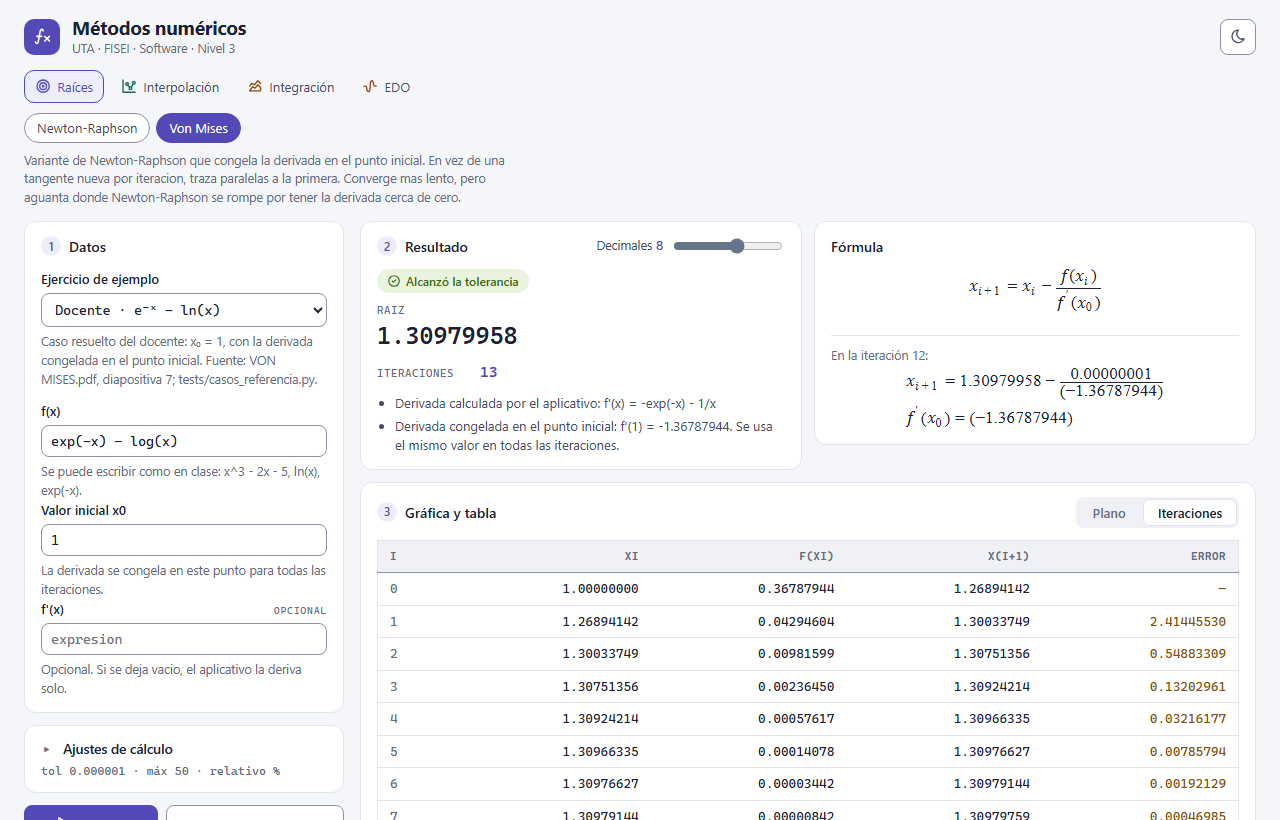
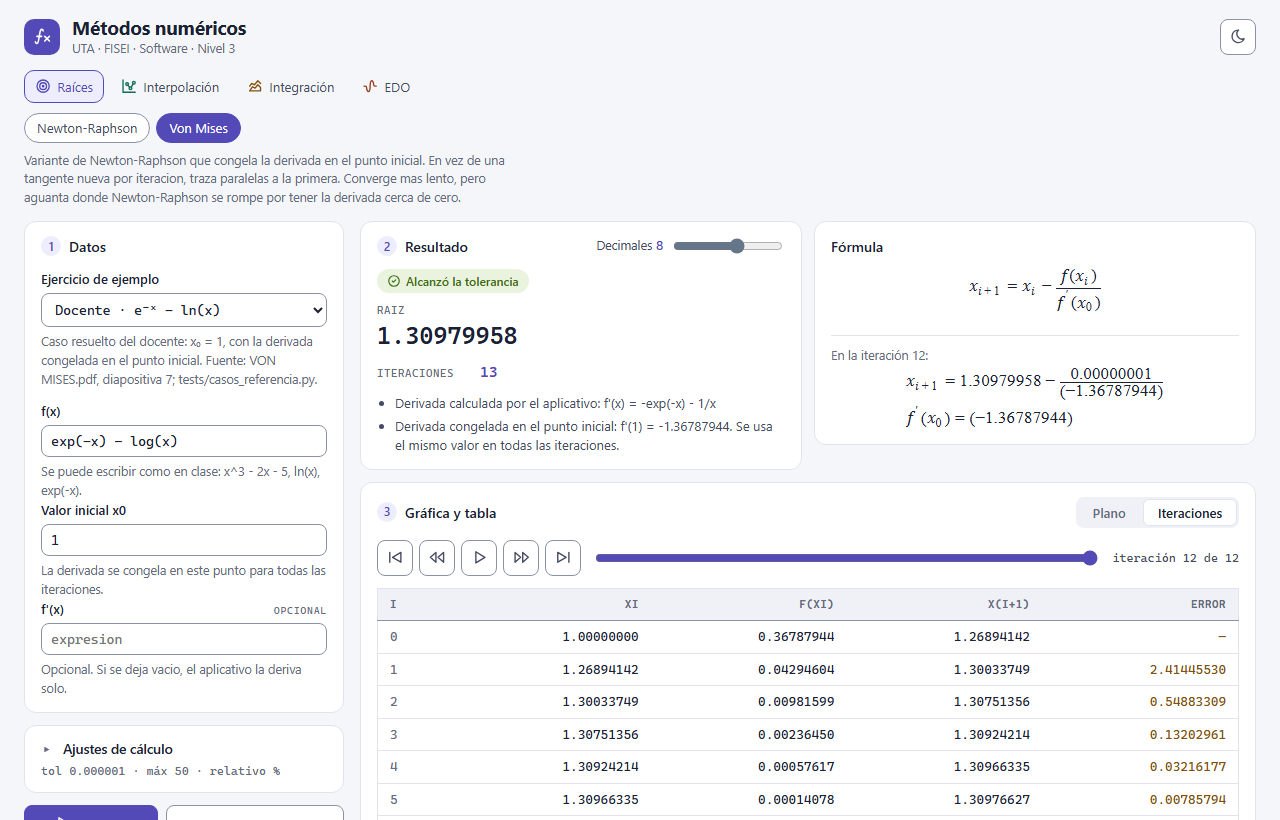
Manual, capturas y validación del arrastre

diff --git a/tests/e2e/capturas.spec.js b/tests/e2e/capturas.spec.js
@@ -29,6 +29,19 @@ async function dibujoTerminado(page) {
   await page.waitForTimeout(2300);
 }
 
+// Un punto del plano de la aplicacion en coordenadas de pagina: la raiz o un
+// asa. Lo calcula el propio plano, asi no depende de donde quede el lienzo.
+async function puntoDelPlano(page, cual) {
+  const [px, py] = await page.evaluate(async (cual) => {
+    const { plano } = await import("/app.js");
+    if (cual !== "raiz") return plano.posicionAsa(cual);
+    const raiz = plano.capas.find((c) => c.nombre === "raiz").puntos[0];
+    return plano._aPantalla(raiz.x, raiz.y);
+  }, cual);
+  const caja = await page.locator("#plano").boundingBox();
+  return [caja.x + px, caja.y + py];
+}
+
 test("capturas del manual", async ({ page }) => {
   await page.goto("/");
   await esperarDesplegable(page);
@@ -75,8 +88,28 @@ test("capturas del manual", async ({ page }) => {
   await arriba(page);
   // Con la vista inicial todos los puntos caen casi sobre la raiz: se acerca
   // a ella para que se vean el elemento actual y los siguientes, atenuados.
-  await page.mouse.move(870, 1018);
+  await page.mouse.move(...await puntoDelPlano(page, "raiz"));
   for (let i = 0; i < 16; i++) await page.mouse.wheel(0, -300);
   await page.waitForTimeout(800);
   await page.screenshot({ path: `${DESTINO}04-recorrido.png` });
+
+  // El arrastre: √2 con Newton-Raphson, con el asa x0 tomada y llevada de 1
+  // hacia la izquierda, donde las tangentes se ven. Se fotografia con el boton
+  // todavia apretado.
+  await page.setViewportSize({ width: 1280, height: 820 });
+  await elegirMetodo(page, "newton-raphson");
+  await page.locator("#preset").selectOption("newton-raiz-de-dos");
+  await page.locator("#resolver").click();
+  await expect(page.locator("#resumen .estado")).toBeVisible();
+  await dibujoTerminado(page);
+  // Solo la tarjeta del plano: con la pagina arriba el eje queda bajo el borde.
+  await page.locator("#plano").scrollIntoViewIfNeeded();
+  const [x, y] = await puntoDelPlano(page, "x0");
+  await page.mouse.move(x, y);
+  await page.mouse.down();
+  await page.mouse.move(x - 90, y, { steps: 10 });
+  await expect(page.locator("#campo-x0")).not.toHaveValue("1");
+  await page.waitForTimeout(600);
+  await page.locator("#tarjeta-plano").screenshot({ path: `${DESTINO}05-arrastre.png` });
+  await page.mouse.up();
 });

diff --git a/tests/pages/sitio.spec.js b/tests/pages/sitio.spec.js
@@ -100,6 +100,27 @@ test("exporta CSV y PDF desde los botones", async () => {
   }
 });
 
+test("arrastrar x₀ de Newton-Raphson recalcula con Python en el navegador", async () => {
+  await elegirMetodo(page, "newton-raphson");
+  await page.locator("#preset").selectOption("newton-clasico");
+  await page.locator("#resolver").click();
+  await expect(page.locator("#resumen .estado")).toBeVisible();
+  const resumen = await page.locator("#resumen").textContent();
+  const posicion = () => page.evaluate(async () =>
+    (await import(new URL("app.js", location.href))).plano.posicionAsa("x0"));
+  await page.locator("#plano").scrollIntoViewIfNeeded();
+  await expect.poll(posicion).not.toBeNull();
+  const [px, py] = await posicion();
+  const caja = await page.locator("#plano").boundingBox();
+  await page.mouse.move(caja.x + px, caja.y + py);
+  await page.mouse.down();
+  await page.mouse.move(caja.x + px - 60, caja.y + py, { steps: 10 });
+  await page.mouse.up();
+  await expect(page.locator("#campo-x0")).not.toHaveValue("2");
+  await expect.poll(() => page.locator("#resumen").textContent()).not.toBe(resumen);
+  await expect(page.locator("#paso-siguiente")).toBeEnabled();
+});
+
 test("no quedan errores en la consola", async () => {
   expect(errores).toEqual([]);
 });

diff --git a/docs/MANUAL.md b/docs/MANUAL.md
@@ -171,7 +171,9 @@ produce una estimacion de error por fila, y la nota lo explica.
 Es un plano de verdad, no una imagen:
 
 - **Rueda del mouse** para acercar y alejar.
-- **Arrastrar** para mover.
+- **Arrastrar el fondo** para mover.
+- **Los circulos de color** son datos del problema y se pueden arrastrar (ver
+  la seccion 6).
 - **Doble clic** vuelve a la vista inicial.
 - Con el plano **enfocado** (haciendo clic o con Tab): flechas para mover, `+`
   y `−` para el zoom, `Home` para volver al inicio.
@@ -192,7 +194,7 @@ iteracion 1, resaltado, y los de las filas siguientes, tenues.
 
 Despues de resolver, el aplicativo no solo muestra el final: se puede ir paso a
 paso, como en el pizarron. Arriba del plano aparece una barra con cinco botones
-y un deslizador. Al resolver queda en la **ultima fila**; para volver a mirar
+y un deslizador; queda a la vista tambien en la pestana **Iteraciones**. Al resolver queda en la **ultima fila**; para volver a mirar
 desde el principio se pulsa **Primera fila**.
 
 | Control | Que hace |
@@ -236,7 +238,9 @@ Una vez elegida la fila, todo se mueve junto:
   formula con los numeros de la fila: "En la iteracion n:" (o "En el punto n",
   "En el subintervalo n", "En el paso n") seguido de la sustitucion. Los numeros
   negativos van entre parentesis. En Runge-Kutta se escribe una linea por cada
-  incognita del sistema.
+  incognita del sistema. En Newton-Raphson y Von Mises, si la fila cae justo en
+  la raiz (f(x) = 0) el metodo no avanza: en vez de la division se lee
+  `raiz exacta: el metodo no avanza`.
 
 Algunas cosas conviene saberlas:
 
@@ -253,7 +257,45 @@ Algunas cosas conviene saberlas:
 - Si un metodo diverge, tambien se puede recorrer; las filas con valores que no
   existen muestran una raya.
 
-## 6. Comparar metodos
+## 6. Arrastrar en el plano
+
+![Arrastrando el x0 de Newton-Raphson](capturas/05-arrastre.png)
+
+Despues de resolver, los datos del problema aparecen en el plano como
+**circulos de color** que se pueden tomar con el mouse (o con el dedo) y mover:
+
+| Familia | Que se arrastra |
+|---|---|
+| Raices | El valor inicial `x0`, sobre el eje x. |
+| Interpolacion | Cada punto `P0`, `P1`... en cualquier direccion, y el `x` a evaluar sobre el eje x. |
+| Integracion | Los extremos `a` y `b`, sobre el eje x. |
+| EDO | La condicion inicial (`x0`, `y0`); en un sistema, una por incognita. |
+
+Mientras se arrastra, el campo del formulario cambia a la vez y el metodo **se
+vuelve a resolver en vivo**: el plano y el numero del resultado cambian varias
+veces por segundo. La tabla, la franja y el recorrido esperan a que se suelte;
+al soltar quedan en la ultima fila del resultado nuevo, como despues de
+**Resolver**. En la captura, el `x0` de √2 se lleva de 1 a 0.6 y se ven las
+tangentes nuevas.
+
+- El valor se redondea a lo que se distingue en pantalla: con la vista
+  inicial, a centesimos; acercandose aparecen mas decimales.
+- El dato no sale de la vista. Para llevarlo mas lejos, alejar el zoom o
+  escribirlo en el formulario.
+- Un clic corto sobre un circulo no lo mueve: sigue eligiendo la fila de ese
+  punto (seccion 5).
+- Si el metodo no acepta el valor (por ejemplo `a` mas alla de `b`, dos puntos
+  con la misma `x`, o una derivada que se anula), el dibujo anterior queda
+  tenue y el motivo aparece bajo el plano. Al volver a un valor valido todo
+  vuelve a la normalidad; si se suelta ahi, el dato vuelve al ultimo valor que
+  funciono y un aviso lo explica.
+- Todo lo que se hace arrastrando se puede hacer escribiendo en el formulario y
+  pulsando **Resolver**.
+- En la version en linea (GitHub Pages) Python corre en el navegador: el
+  recalculo es mas lento y la pagina puede trabarse un instante mientras
+  calcula.
+
+## 7. Comparar metodos
 
 **Comparar metodos** resuelve el mismo problema con todos los metodos que
 reciben los mismos datos, y arma una tabla con iteraciones, resultado, error
@@ -265,7 +307,7 @@ punto inicial, y se ve para que sirve congelar la derivada y lo que cuesta.
 Menos iteraciones no siempre es mejor: un metodo puede converger rapido en un
 punto y romperse en otro.
 
-## 7. Exportar
+## 8. Exportar
 
 **Exportar CSV** baja la tabla completa. **Exportar PDF** baja un documento con
 el metodo, la funcion, los parametros, la tabla y el resultado.

diff --git a/docs/INFORME.md b/docs/INFORME.md
@@ -245,7 +245,7 @@ El detalle esta en [VALIDACION.md](VALIDACION.md). En resumen:
 | | |
 |---|---|
 | Pruebas de Python | **339**, todas en verde |
-| Pruebas de navegador (Playwright) | **172**, todas en verde |
+| Pruebas de navegador (Playwright) | **213**, todas en verde |
 | Instalacion probada en limpio | historial: clon nuevo, entorno virgen, 275 en verde y la interfaz sirviendo (2026-09-18, antes de Trapecio) |
 
 La vara principal es la **tabla del docente**: `f(x) = e⁻ˣ − ln(x)` con `x₀ = 1`.

diff --git a/README.md b/README.md
@@ -91,7 +91,7 @@ escribio el codigo y aparecen en la del que clona.
 
 ### Pruebas de navegador
 
-Aparte de las de Python hay **172 pruebas de interfaz** con Playwright, que
+Aparte de las de Python hay **213 pruebas de interfaz** con Playwright, que
 levantan el servidor de verdad y manejan la pantalla:
 
 ```bash
